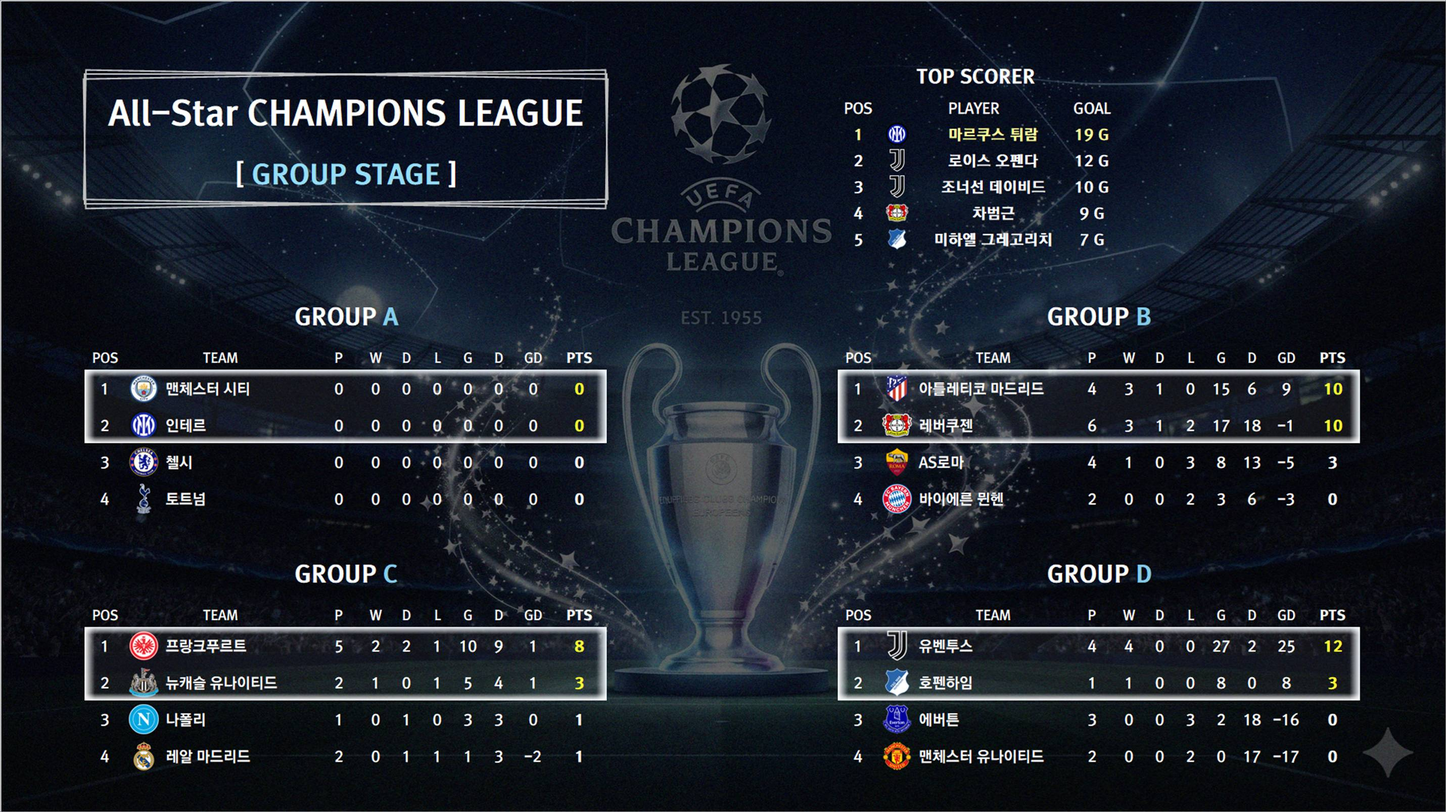
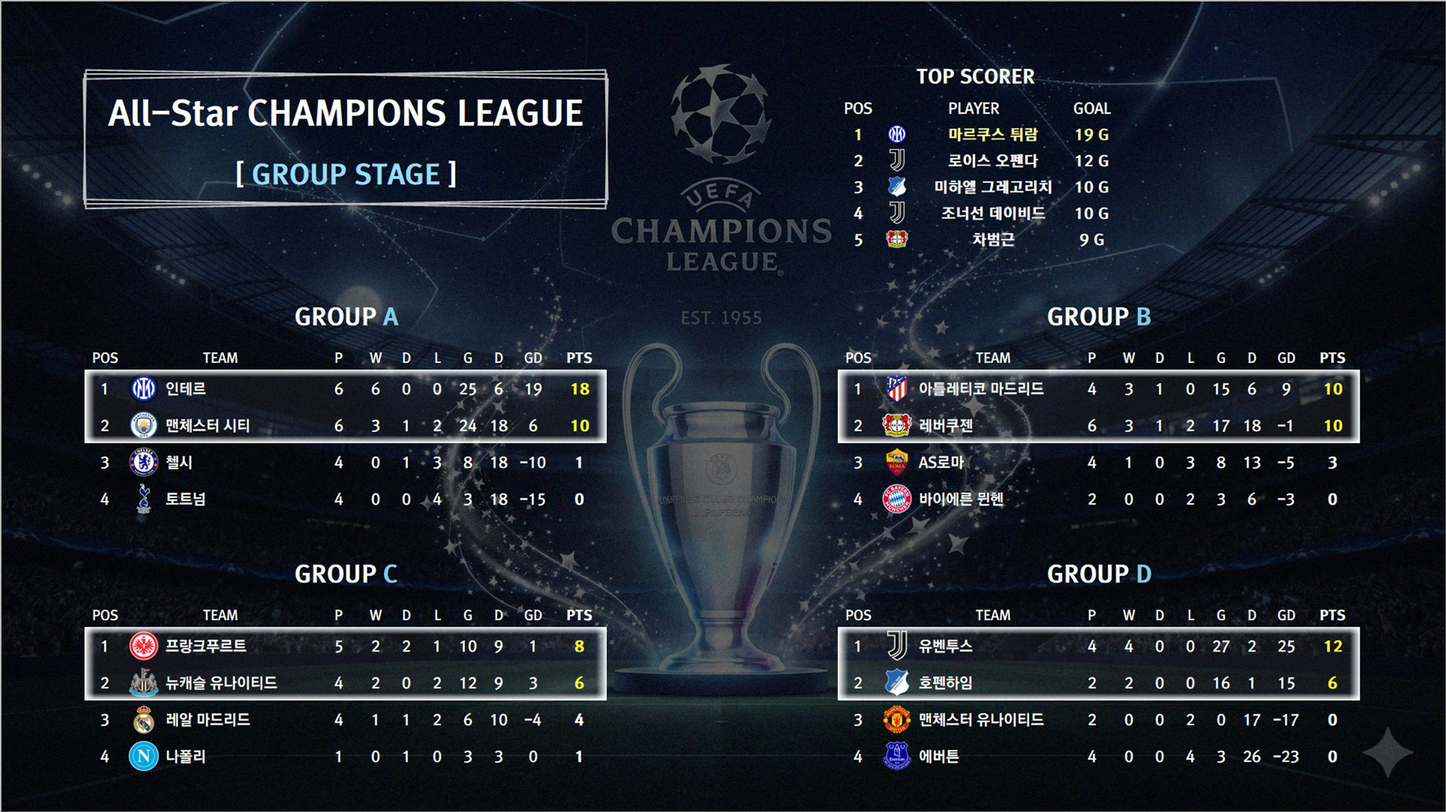
Optimize: 23:38:04

diff --git a/index.html b/index.html
@@ -69,11 +69,11 @@
     <div class="container">
         <div class="card"><h2>🥇 1부 리그 순위표</h2><img src="https://i.ibb.co/YTkD60TY/2346998dc77b.jpg" alt="1부 리그"></div>
         <div class="card"><h2>🥈 2부 리그 순위표</h2><img src="https://i.ibb.co/kVWW7dVy/b74bfbfd9901.jpg" alt="2부 리그"></div>
-        <div class="card"><h2>🌟 UCL 그룹스테이지</h2><img src="https://i.ibb.co/Qv44R86P/cd825f94ffd6.jpg" alt="UCL 조별"></div>
-        <div class="card"><h2>🏆 UCL 토너먼트 대진표</h2><img src="https://i.ibb.co/1G2R16t8/047e6a6cbb3a.jpg" alt="UCL 토너"></div>
+        <div class="card"><h2>🌟 UCL 그룹스테이지</h2><img src="https://i.ibb.co/8DsF9Bym/c774d842a0ce.jpg" alt="UCL 조별"></div>
+        <div class="card"><h2>🏆 UCL 토너먼트 대진표</h2><img src="https://i.ibb.co/RTpT5kPq/568204ccfaeb.jpg" alt="UCL 토너"></div>
         <div class="card"><h2>🎖 UEL 토너먼트 대진표</h2><img src="https://i.ibb.co/wN8KyFYq/2c7024a73db1.jpg" alt="UEL 토너"></div>
         <div class="card"><h2>🏅 FA컵 토너먼트 대진표</h2><img src="https://i.ibb.co/Tqw7zCC2/eb76ae18e50d.jpg" alt="FA컵"></div>
-        <div class="card"><h2>👑 GOLDEN BOOT (통합 득점왕)</h2><img src="https://i.ibb.co/DDfvKjtS/d0f45067e6ef.jpg" alt="득점왕"></div>
+        <div class="card"><h2>👑 GOLDEN BOOT (통합 득점왕)</h2><img src="https://i.ibb.co/BKffdNQ7/f158fa0be47d.jpg" alt="득점왕"></div>
     </div>
     
     <footer>
